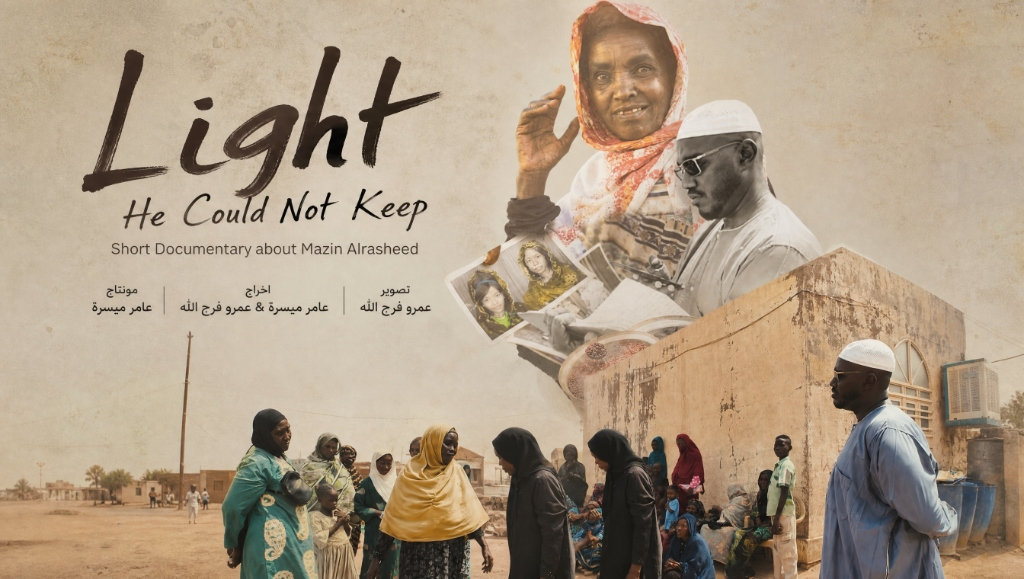
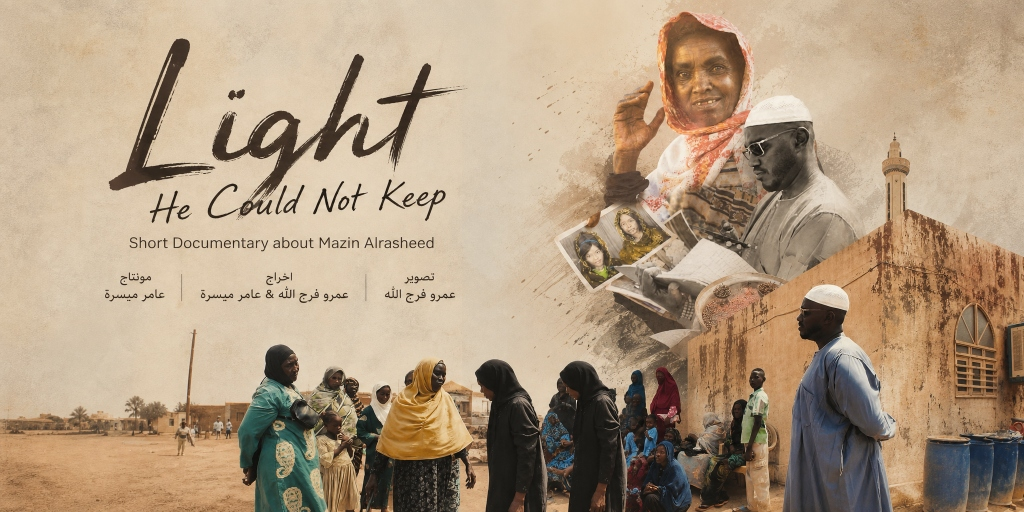
fix: replace poster image and fix frame coverage using background-image

diff --git a/src/components/ProjectModal.tsx b/src/components/ProjectModal.tsx
@@ -62,7 +62,16 @@ export function ProjectModal({ project, onClose }: Props) {
           </button>
         </div>
 
-        <div className={`modal-still${(project.youtubeId || project.poster) ? ' has-video' : ''}`} data-label={(project.youtubeId || project.poster) ? undefined : stillLabel}>
+        <div
+          className={`modal-still${(project.youtubeId || project.poster) ? ' has-video' : ''}${project.poster && !project.youtubeId ? ' has-poster' : ''}`}
+          data-label={(project.youtubeId || project.poster) ? undefined : stillLabel}
+          style={project.poster && !project.youtubeId ? {
+            backgroundImage: `url(${project.poster})`,
+            backgroundSize: 'cover',
+            backgroundPosition: 'center center',
+            backgroundRepeat: 'no-repeat',
+          } : undefined}
+        >
           {project.youtubeId ? (
             <iframe
               src={`https://www.youtube.com/embed/${project.youtubeId}?autoplay=0&rel=0&modestbranding=1`}
@@ -73,11 +82,10 @@ export function ProjectModal({ project, onClose }: Props) {
               style={{ width: '100%', height: '100%', border: 'none' }}
             />
           ) : project.poster ? (
-            <img 
-              src={project.poster} 
-              alt={project.plain} 
-              style={{ width: '100%', height: '100%', objectFit: 'cover' }} 
-            />
+            <>
+              <div className="modal-poster-overlay" />
+              <div className="modal-poster-title" dangerouslySetInnerHTML={{ __html: project.title }} />
+            </>
           ) : null}
         </div>
 

diff --git a/src/index.css b/src/index.css
@@ -919,6 +919,39 @@ section {
 .modal-still.has-video::before {
   display: none;
 }
+
+/* Poster-only modal frame */
+.modal-still.has-poster {
+  aspect-ratio: unset;
+  height: 420px;
+}
+.modal-poster-overlay {
+  position: absolute;
+  inset: 0;
+  background: linear-gradient(
+    to bottom,
+    rgba(5, 5, 7, 0.1) 0%,
+    rgba(5, 5, 7, 0.0) 40%,
+    rgba(5, 5, 7, 0.65) 75%,
+    rgba(5, 5, 7, 0.9) 100%
+  );
+  z-index: 1;
+}
+.modal-poster-title {
+  position: absolute;
+  bottom: 28px;
+  left: 32px;
+  z-index: 2;
+  font-family: var(--display-font);
+  font-size: clamp(32px, 5vw, 64px);
+  font-weight: 700;
+  text-transform: uppercase;
+  line-height: 0.95;
+  letter-spacing: -0.03em;
+  color: #ffffff;
+  text-shadow: 0 2px 20px rgba(0, 0, 0, 0.6);
+  max-width: 70%;
+}
 .modal-still::after {
   content: attr(data-label);
   position: absolute;
